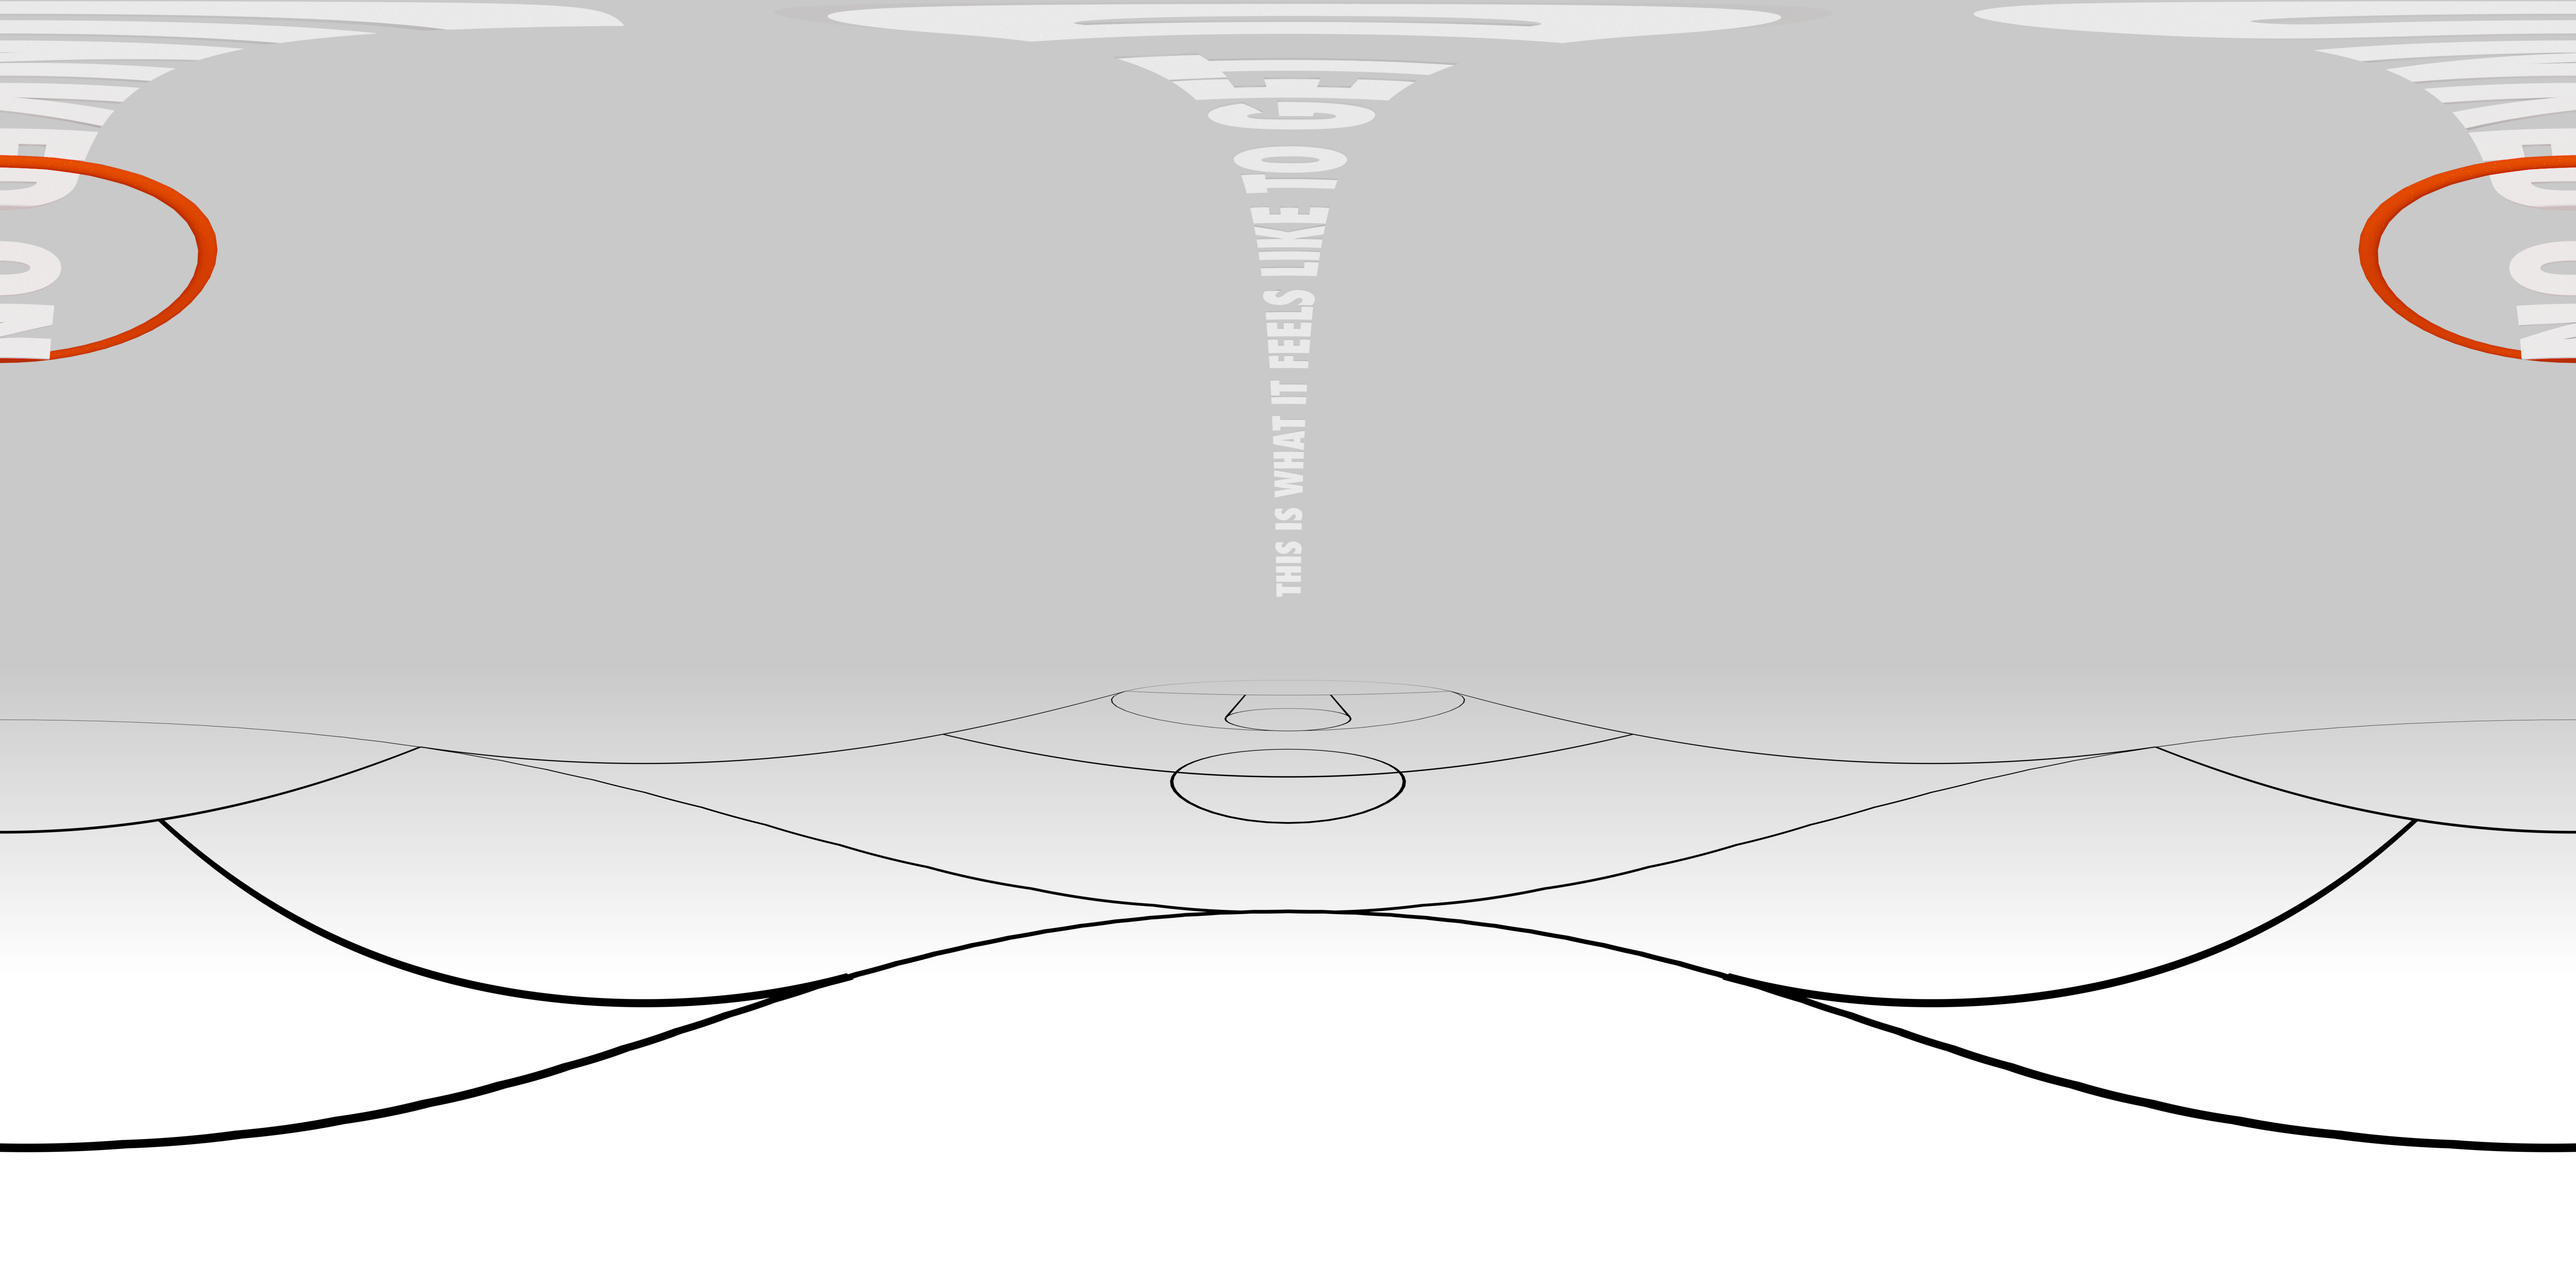
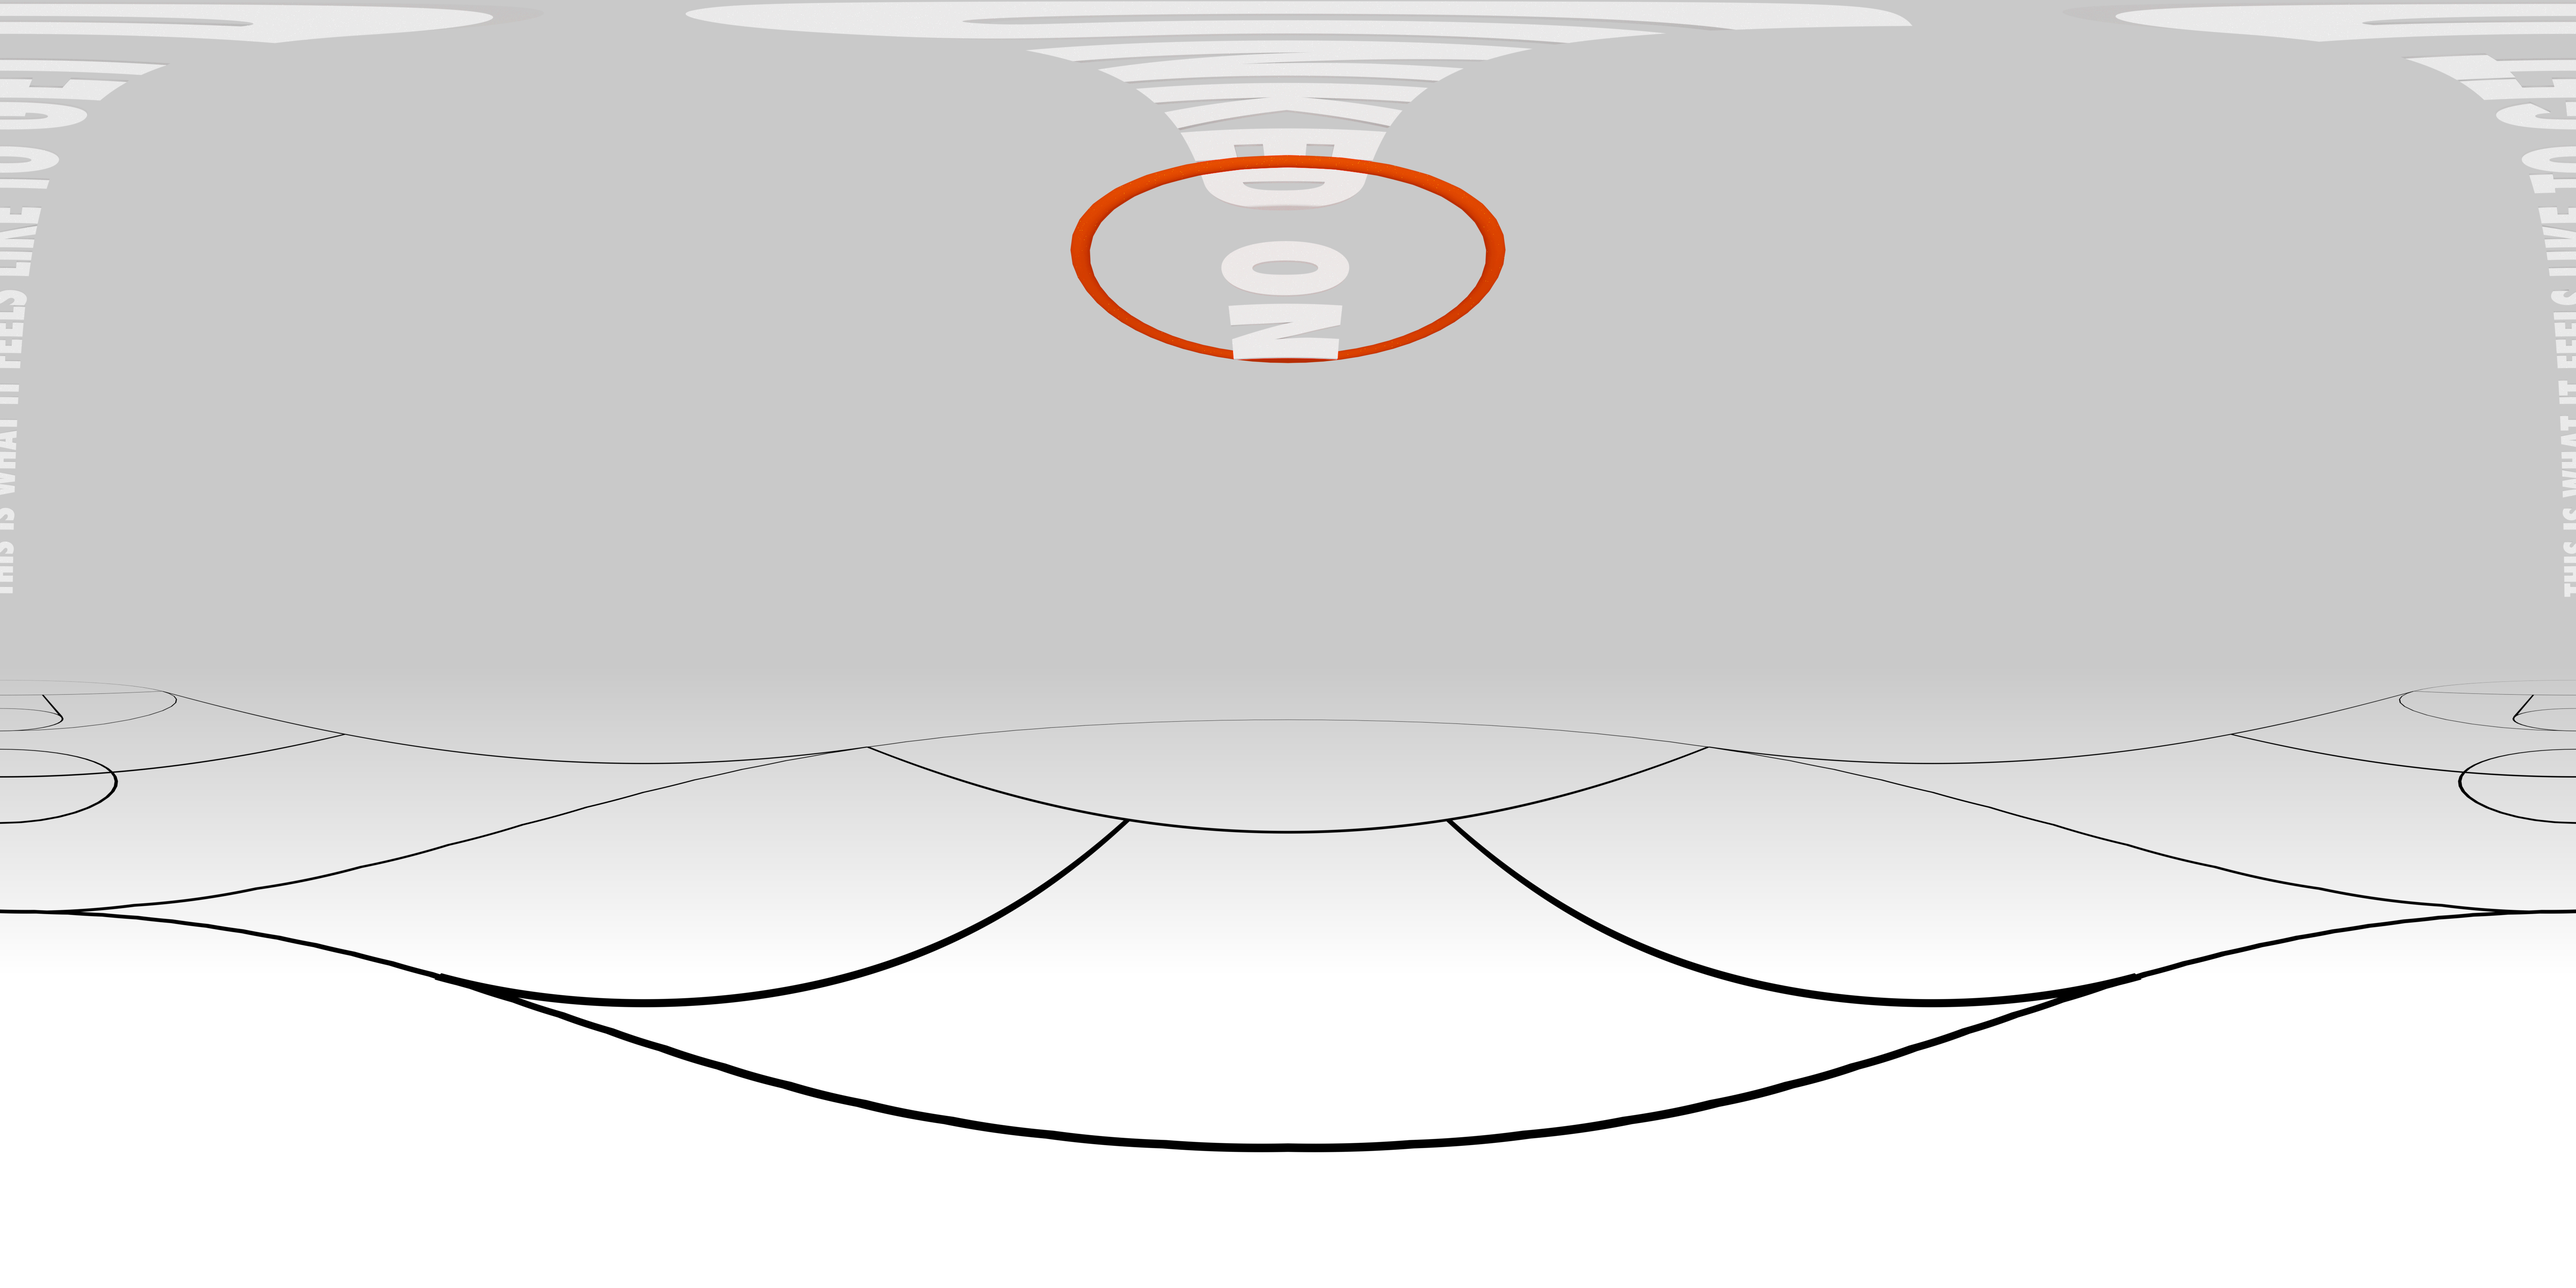
fdsfds

diff --git a/index.html b/index.html
@@ -63,12 +63,6 @@
   </div>
 
   <div class="Grid-cell">
-    <h2>Light</h2>
-    <h4>&#9758; <a href="http://ivanvidovic.com/light.html" title="Light" target="_top">Interactive</a> &#9756;</h4>
-    <iframe class="square" src="https://player.vimeo.com/video/230247686?loop=1&title=0&byline=0&portrait=0" frameborder="0" webkitallowfullscreen mozallowfullscreen allowfullscreen></iframe>
-  </div>
-
-  <div class="Grid-cell">
     <h2>Astronaut</h2>
     <iframe class="landscape" src="https://player.vimeo.com/video/209945274?loop=1&title=0&byline=0&portrait=0" frameborder="0" webkitallowfullscreen mozallowfullscreen allowfullscreen></iframe>
   </div>

diff --git a/dunk.html b/dunk.html
@@ -35,7 +35,7 @@
   <div class="Grid-cell">
     <h2>Dunked On</h2>
     <h4>Look Around<br/><br/>&#8595;</h4>
-    <iframe frameborder="0" webkitallowfullscreen mozallowfullscreen allowfullscreen src="https://ivanvidovic.github.io/vrview/?image=examples/Dunked_On.jpg"></iframe>
+    <iframe frameborder="0" webkitallowfullscreen mozallowfullscreen allowfullscreen start_yaw="90" src="https://ivanvidovic.github.io/vrview/?image=examples/Dunked_On.jpg"></iframe>
   </div>
 </div>
 
